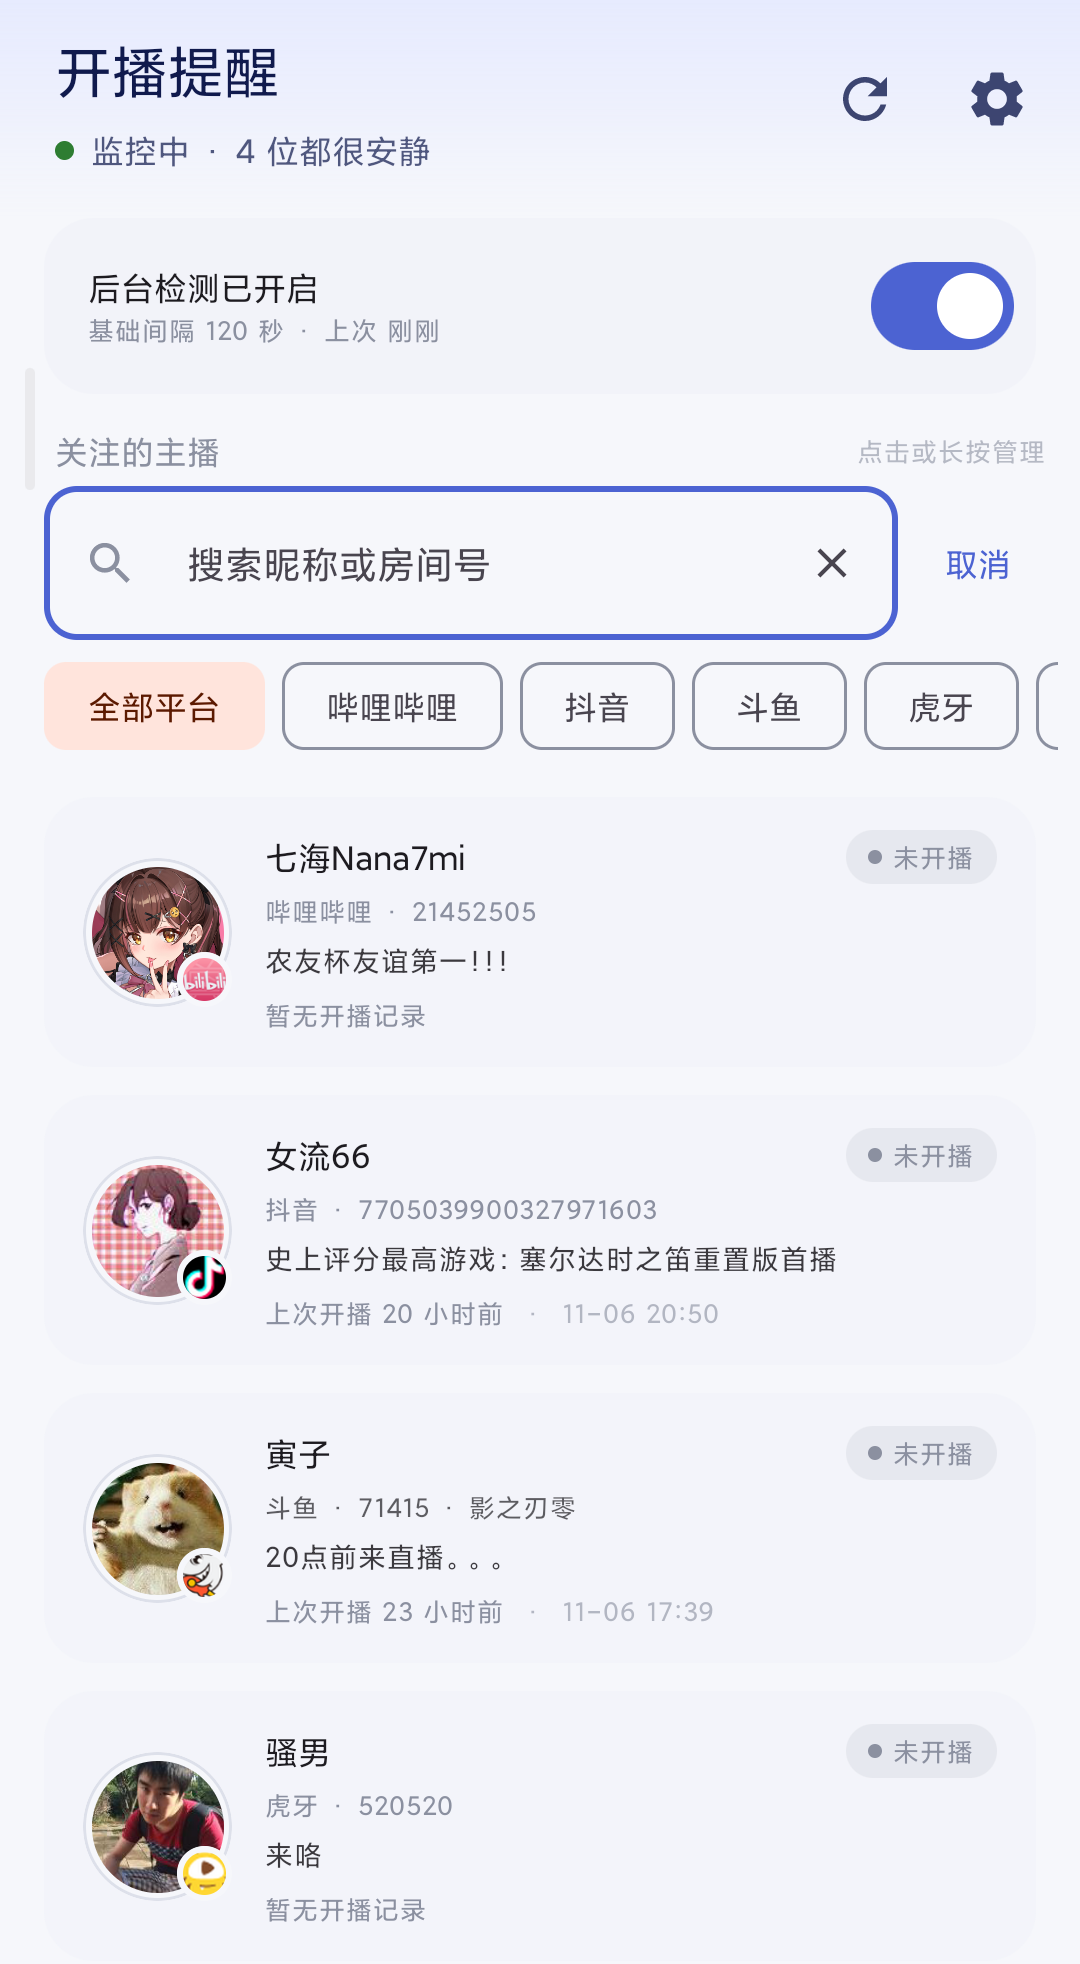
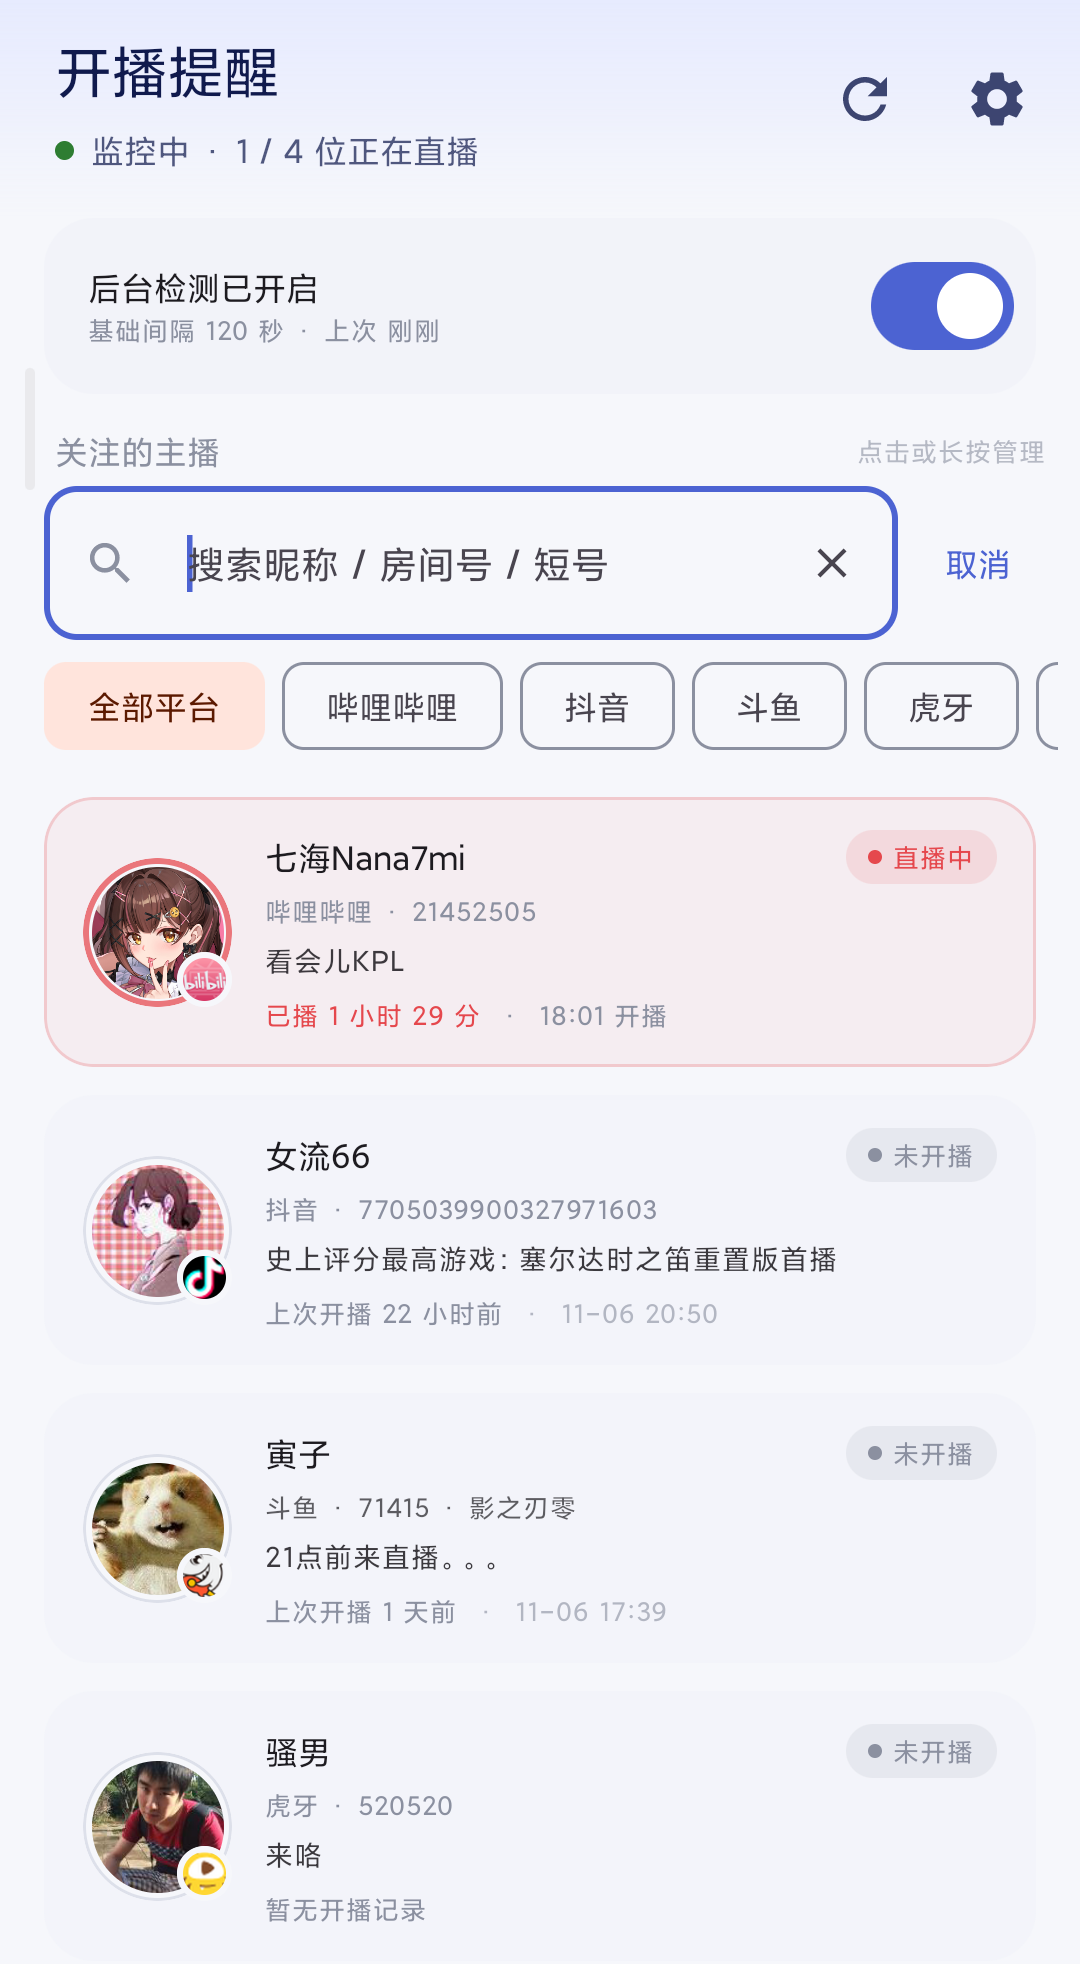
docs: 封面换成 v1.0.12 同步截图，图注与主播状态同步
- docs/screenshot-main-search.png 换成真机重拍的搜索展开态：搜索框文案
  已与当前版本一致，首位 B 站主播正在直播（卡片淡红高亮）
- 两版 README 图注与「四位主播」表同步：删掉「四位都未开播」，
  首行改为「直播中 / Live」；不写死瞬时直播时长，避免再次变成过时文案
- 四位主播名与房间号不变，图片路径不变，引用与锚点无需调整

纯文档改动，不涉及代码、签名与数据库；不打 tag、不触发 release job，
v1.0.12 的 APK 与 Release 不受影响。

diff --git a/README.en.md b/README.en.md
@@ -146,11 +146,11 @@ The cover screenshot reads top-to-bottom as follows. **One streamer per platform
 | 5 | Streamer cards × 4 | See the table below |
 | 6 | Bottom-right **+** | Add a streamer; hidden while search is open so the keyboard does not cover the results |
 
-> The cover was re-shot on 2026-11-07 with **search expanded**: one streamer per platform, with the same names and card layout as before. All four happened to be offline at the time; a live card gets a soft red highlight and shows "Live for…". The Douyin card shows the `web_rid` returned by the platform (its stable room identifier) — the Douyin number `629458933` in the example link points to the same streamer.
+> The cover was re-shot on 2026-11-07 (updated again after v1.0.12) with **search expanded**: one streamer per platform, the same names and room IDs, and the search placeholder now matches the current build. At the time of the shot **七海Nana7mi was live** — her card has a soft red highlight and shows "Live for…" — while the other three were offline. The Douyin card shows the `web_rid` returned by the platform (its stable room identifier) — the Douyin number `629458933` in the example link points to the same streamer.
 
 | Platform | Streamer | Room ID (example link) | When the cover was shot |
 |---|---|---|---|
-| **Bilibili** | 七海Nana7mi | `21452505` | ⚪ Offline |
+| **Bilibili** | 七海Nana7mi | `21452505` | 🔴 Live |
 | **Douyin** | 女流66 | `629458933` | ⚪ Offline |
 | **Douyu** | 寅子 | `71415` | ⚪ Offline |
 | **Huya** | 骚男 | `520520` | ⚪ Offline |

diff --git a/README.md b/README.md
@@ -146,11 +146,11 @@
 | 5 | 主播卡片 × 4 | 见下表 |
 | 6 | 右下角 **+** | 添加关注；搜索展开时自动收起，免得键盘压住结果 |
 
-> 封面是 2026-11-07 重拍的**搜索展开状态**：四个平台仍各一位主播，昵称与卡片结构未变。拍摄时四位都未开播；直播中会整卡淡红高亮并显示「已播…」。抖音卡片显示接口返回的 `web_rid`（稳定房间标识），与示例链接里的抖音号 `629458933` 指向同一位主播。
+> 封面是 2026-11-07 重拍（v1.0.12 后再次更新）的**搜索展开状态**：四个平台仍各一位主播，昵称与房间号未变，搜索框文案已与当前版本一致。拍摄时**七海Nana7mi 正在直播**，卡片淡红高亮并显示「已播…」，其余三位未开播。抖音卡片显示接口返回的 `web_rid`（稳定房间标识），与示例链接里的抖音号 `629458933` 指向同一位主播。
 
 | 平台 | 主播 | 房间号（示例链接） | 封面拍摄时 |
 |---|---|---|---|
-| **哔哩哔哩** | 七海Nana7mi | `21452505` | ⚪ 未开播 |
+| **哔哩哔哩** | 七海Nana7mi | `21452505` | 🔴 直播中 |
 | **抖音** | 女流66 | `629458933` | ⚪ 未开播 |
 | **斗鱼** | 寅子 | `71415` | ⚪ 未开播 |
 | **虎牙** | 骚男 | `520520` | ⚪ 未开播 |
